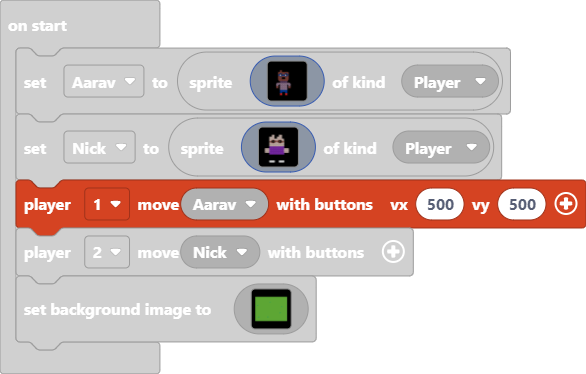
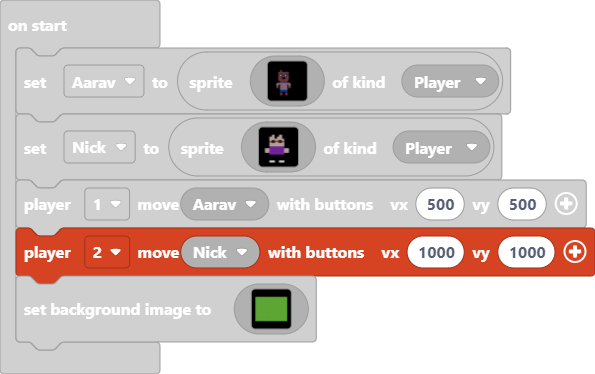
Update main.blocks, main.ts

diff --git a/main.ts b/main.ts
@@ -103,7 +103,7 @@ let Nick = sprites.create(img`
     ..................................................
     `, SpriteKind.Player)
 controller.player1.moveSprite(Aarav, 500, 500)
-controller.player2.moveSprite(Nick)
+controller.player2.moveSprite(Nick, 1000, 1000)
 scene.setBackgroundImage(img`
     7777777777777777777777777777777777777777777777777777777777777777777777777777777777777777777777777777777777777777777777777777777777777777777777777777777777777777
     7777777777777777777777777777777777777777777777777777777777777777777777777777777777777777777777777777777777777777777777777777777777777777777777777777777777777777
